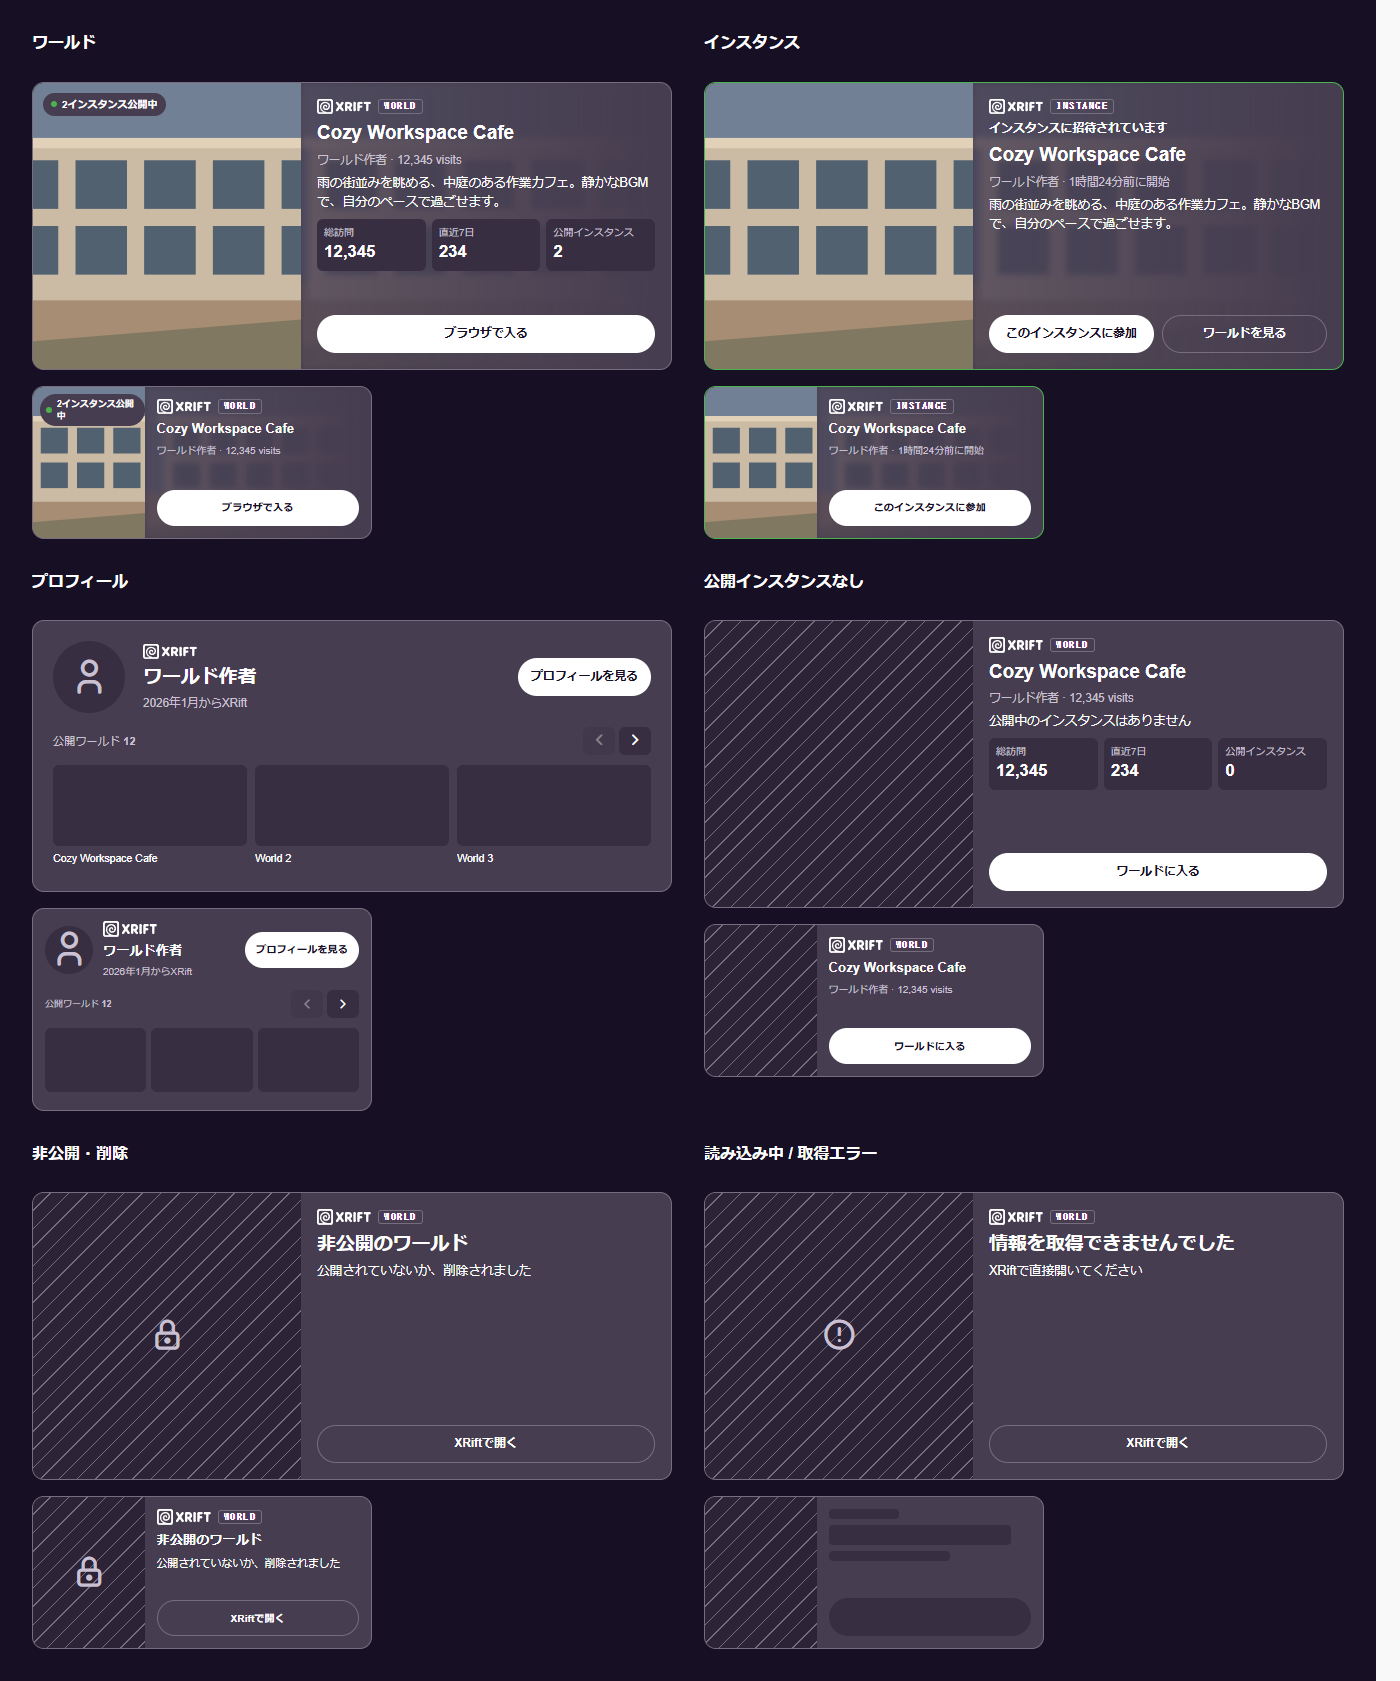
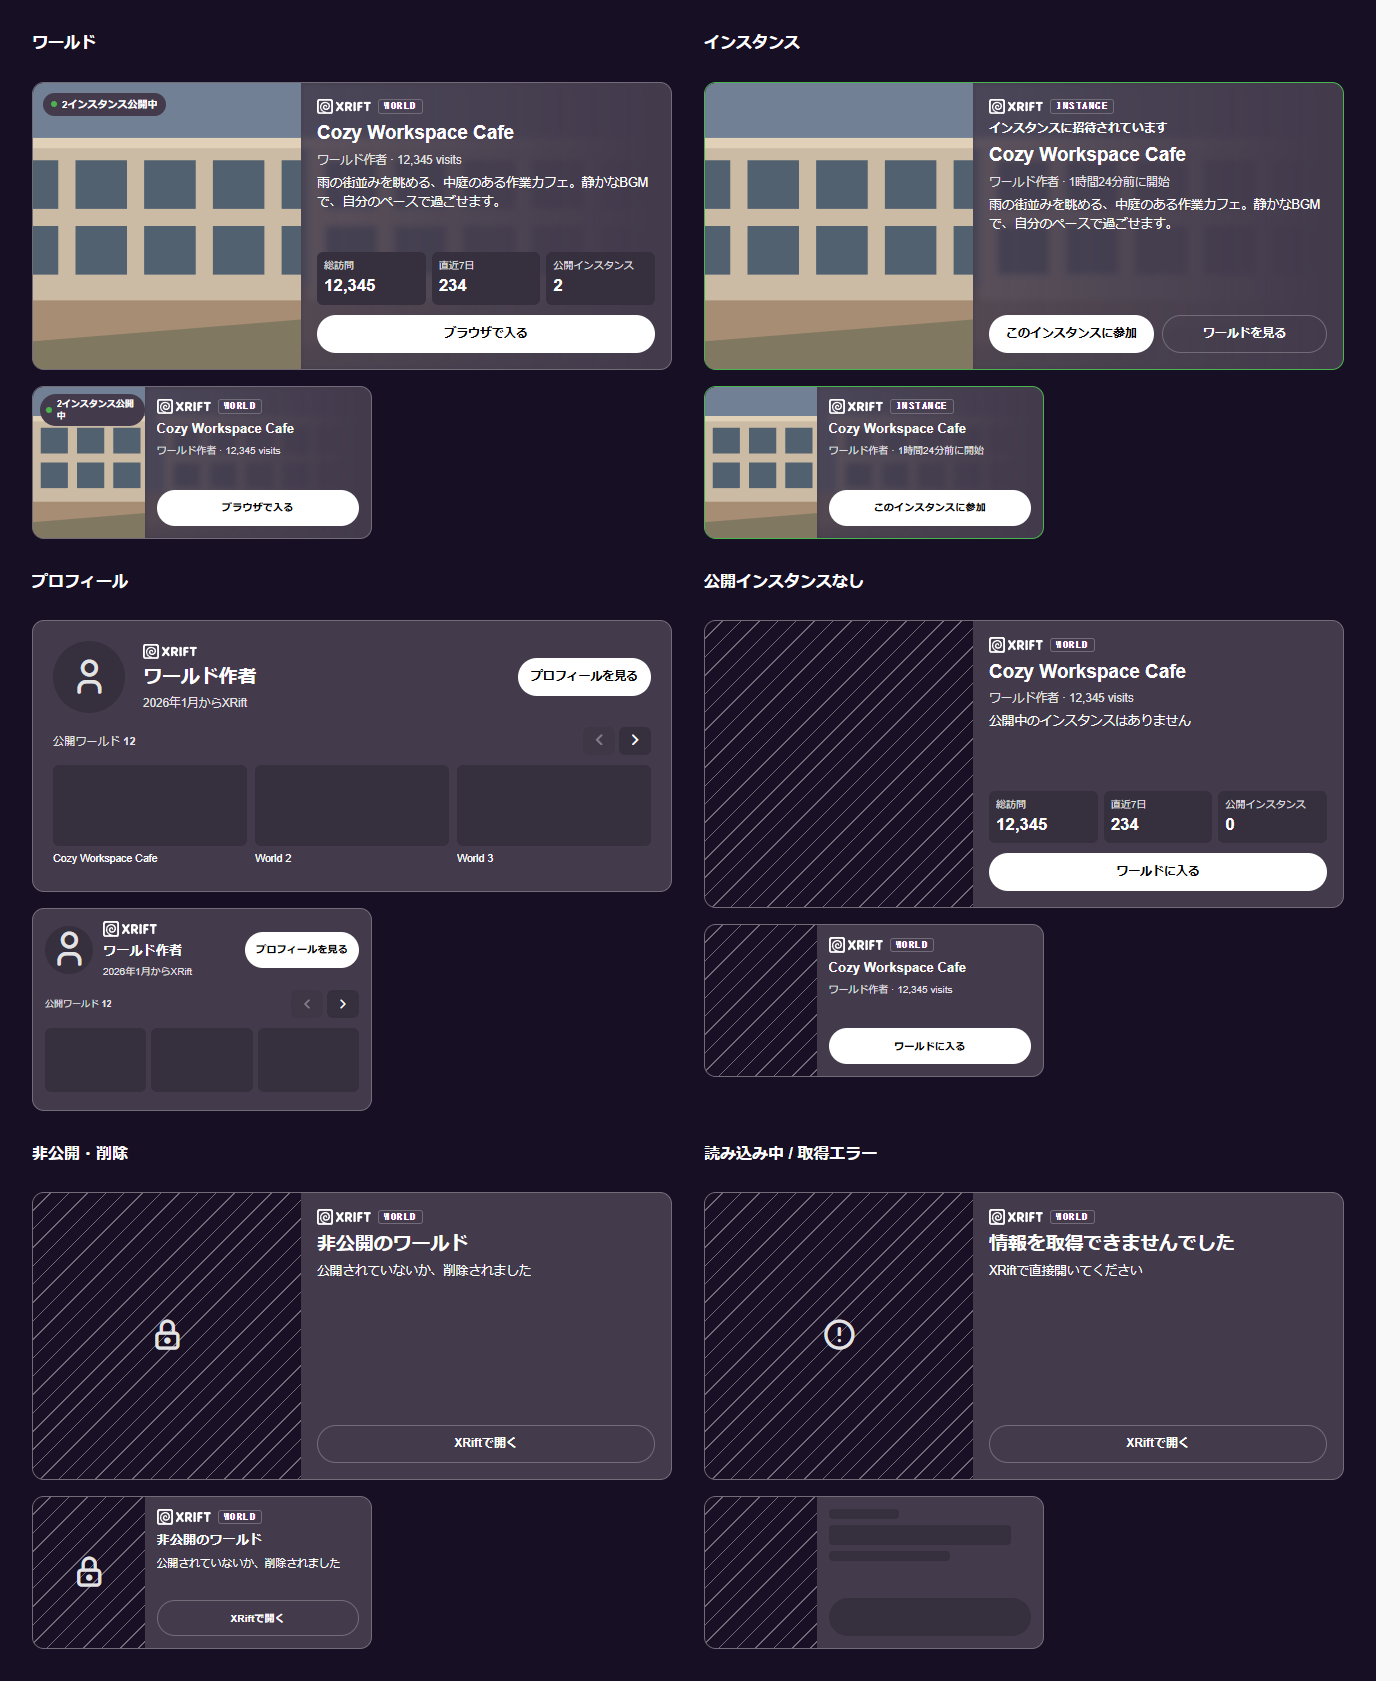
style(gridspace): match XRift app palette and bottom-align stats

diff --git a/packages/frontend/src/components/MkXriftPreview.vue b/packages/frontend/src/components/MkXriftPreview.vue
@@ -60,14 +60,16 @@ SPDX-License-Identifier: AGPL-3.0-only
 						<span v-if="data?.creator" :class="$style.creator">{{ data.creator }}</span><span v-if="data?.creator && metaDetail" aria-hidden="true"> · </span><span v-if="metaDetail" :class="$style.metaDetail">{{ metaDetail }}</span>
 					</p>
 					<p v-if="message" :class="[$style.description, { [$style.stateMessage]: state !== 'available' }]">{{ message }}</p>
-					<dl v-if="type === 'world' && state === 'available' && hasStats" :class="$style.stats">
-						<div v-if="data?.totalVisits != null"><dt>{{ i18n.ts._xriftPreview.totalVisits }}</dt><dd>{{ format(data.totalVisits) }}</dd></div>
-						<div v-if="data?.visitsLast7Days != null"><dt>{{ i18n.ts._xriftPreview.last7Days }}</dt><dd>{{ format(data.visitsLast7Days) }}</dd></div>
-						<div v-if="data?.publicInstances != null"><dt>{{ i18n.ts._xriftPreview.publicRooms }}</dt><dd>{{ format(data.publicInstances) }}</dd></div>
-					</dl>
-					<div :class="$style.actions">
-						<a :href="url" target="_blank" rel="nofollow noopener" :class="[$style.button, { [$style.primary]: state === 'available' }]">{{ actionLabel }}</a>
-						<a v-if="isLive && data?.worldUrl" :href="data.worldUrl" target="_blank" rel="nofollow noopener" :class="[$style.button, $style.secondary]">{{ i18n.ts._xriftPreview.viewWorld }}</a>
+					<div :class="$style.footer">
+						<dl v-if="type === 'world' && state === 'available' && hasStats" :class="$style.stats">
+							<div v-if="data?.totalVisits != null"><dt>{{ i18n.ts._xriftPreview.totalVisits }}</dt><dd>{{ format(data.totalVisits) }}</dd></div>
+							<div v-if="data?.visitsLast7Days != null"><dt>{{ i18n.ts._xriftPreview.last7Days }}</dt><dd>{{ format(data.visitsLast7Days) }}</dd></div>
+							<div v-if="data?.publicInstances != null"><dt>{{ i18n.ts._xriftPreview.publicRooms }}</dt><dd>{{ format(data.publicInstances) }}</dd></div>
+						</dl>
+						<div :class="$style.actions">
+							<a :href="url" target="_blank" rel="nofollow noopener" :class="[$style.button, { [$style.primary]: state === 'available' }]">{{ actionLabel }}</a>
+							<a v-if="isLive && data?.worldUrl" :href="data.worldUrl" target="_blank" rel="nofollow noopener" :class="[$style.button, $style.secondary]">{{ i18n.ts._xriftPreview.viewWorld }}</a>
+						</div>
 					</div>
 				</template>
 			</div>
@@ -158,16 +160,16 @@ function hideFailedImage(event: Event): void {
 
 <style lang="scss" module>
 .root {
-	// The supplied XRift design deliberately keeps its dark palette in every
-	// Misskey theme. Keep these colors local to the embedded card.
-	--xrift-panel: #463d50;
-	--xrift-visual: #2c2336;
-	--xrift-well: #372e42;
-	--xrift-border: #766d7e;
+	// Match app.xrift.net: dark purple with translucent white surfaces.
+	// Keep the provider palette local to the embedded card in every theme.
+	--xrift-visual: #1a1025;
 	--xrift-fg: #ffffff;
-	--xrift-muted: #c9c1d2;
-	--xrift-ink: #170f23;
-	--xrift-hover: #574d61;
+	--xrift-ink: #000000;
+	--xrift-panel: color-mix(in srgb, var(--xrift-fg) 18%, var(--xrift-visual));
+	--xrift-well: color-mix(in srgb, var(--xrift-ink) 20%, var(--xrift-panel));
+	--xrift-border: color-mix(in srgb, var(--xrift-fg) 25%, var(--xrift-panel));
+	--xrift-muted: color-mix(in srgb, var(--xrift-fg) 85%, var(--xrift-panel));
+	--xrift-hover: color-mix(in srgb, var(--xrift-fg) 10%, var(--xrift-panel));
 	--xrift-live: #4bb34f;
 	--xrift-focus: #a6c8ff;
 	container-type: inline-size;
@@ -196,7 +198,7 @@ function hideFailedImage(event: Event): void {
 .visualIcon { position: absolute; inset: 0; display: flex; align-items: center; justify-content: center; font-size: 28px; color: var(--xrift-muted); }
 .placeholder { background: repeating-linear-gradient(135deg, var(--xrift-visual), var(--xrift-visual) 12px, var(--xrift-border) 12px, var(--xrift-border) 13px); }
 .body { position: relative; isolation: isolate; min-width: 0; padding: 16px; display: flex; flex-direction: column; gap: 6px; overflow: hidden; }
-.bodyBackdrop { position: absolute; z-index: -1; inset: 0; width: 100%; height: 100%; object-fit: cover; opacity: 0.2; filter: blur(3px); mask-image: linear-gradient(to right, black, transparent 95%); pointer-events: none; }
+.bodyBackdrop { position: absolute; z-index: -1; inset: 0; width: 100%; height: 100%; object-fit: cover; opacity: 0.16; filter: blur(3px); mask-image: linear-gradient(to right, black, transparent 95%); pointer-events: none; }
 .brandRow { display: flex; align-items: center; gap: 7px; flex-shrink: 0; }
 .brand { display: block; width: 54px; height: auto; flex-shrink: 0; }
 .type { padding: 1px 5px; border: 1px solid var(--xrift-border); border-radius: 3px; font: 700 9px/1.2 monospace; letter-spacing: 0.06em; }
@@ -211,7 +213,8 @@ function hideFailedImage(event: Event): void {
 	dt { color: var(--xrift-muted); font-size: 0.72em; white-space: nowrap; }
 	dd { margin: 2px 0 0; font-size: 1.2em; font-weight: bold; font-variant-numeric: tabular-nums; }
 }
-.actions { display: flex; flex-shrink: 0; gap: 8px; margin-top: auto; padding-top: 4px; }
+.footer { display: flex; flex-shrink: 0; flex-direction: column; gap: 6px; margin-top: auto; }
+.actions { display: flex; flex-shrink: 0; gap: 8px; padding-top: 4px; }
 .button {
 	display: flex; align-items: center; justify-content: center; min-width: 0; min-height: 38px; box-sizing: border-box; flex: 1;
 	padding: 8px 12px; border: 1px solid var(--xrift-border); border-radius: 999px; color: inherit;
